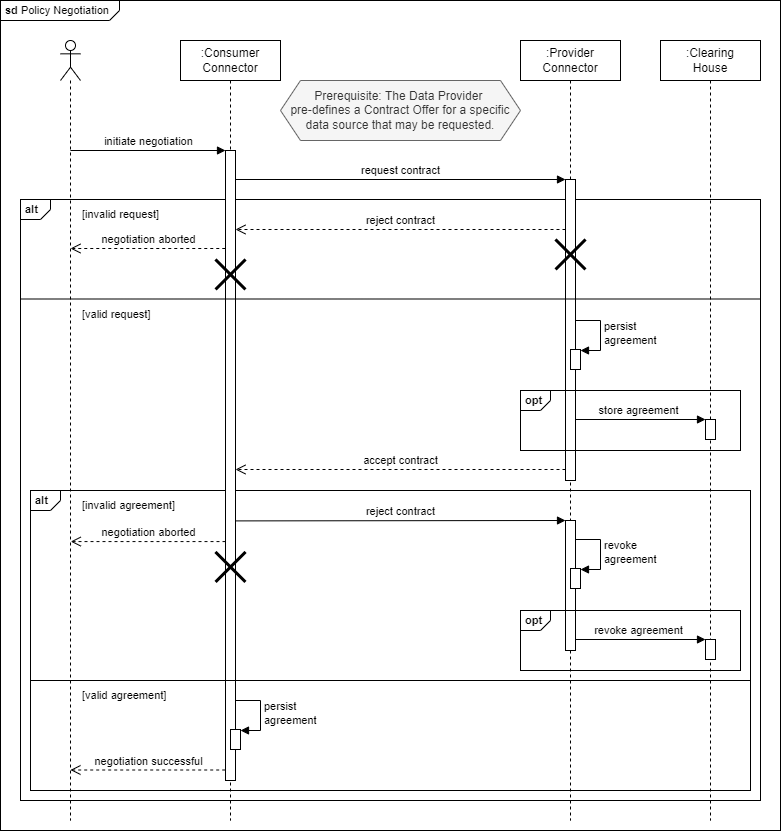
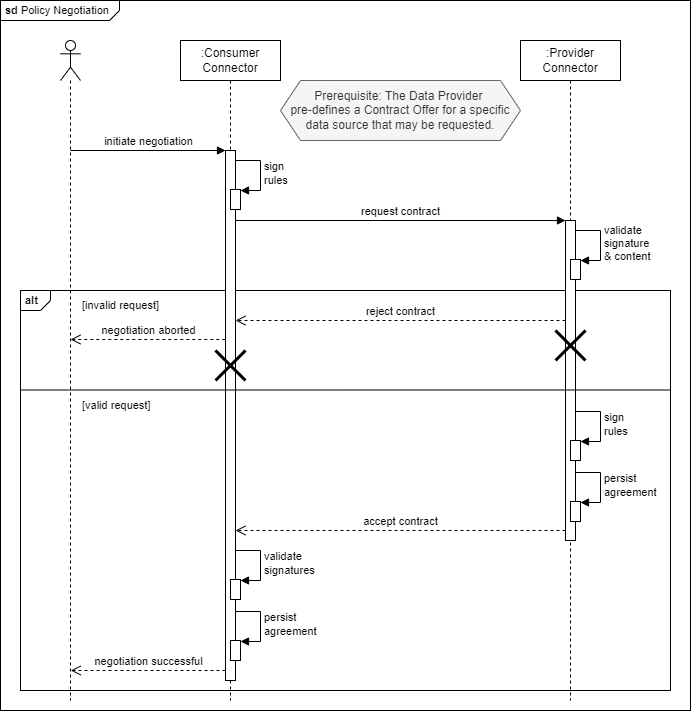
chore: update sequence diagrams

diff --git a/documentation/3_Layers_of_the_Reference_Architecture_Model/3_3_Process_Layer/3_3_3_Contract_Negotiation.md b/documentation/3_Layers_of_the_Reference_Architecture_Model/3_3_Process_Layer/3_3_3_Contract_Negotiation.md
@@ -1,10 +1,10 @@
 # Contract Negotiation
 
 While a Connector Self-Description basically contains descriptive information about available 
-datasets, these also include Usage Control information in form of a Contract Offer. A Contract Offer
-describes under what conditions the Data Provider is willing to make its data available to the Data 
-Consumer. This can range from simple access restrictions to complex pre- and post-duties. See more
-details in Section [X](). // TODO Link to information layer explaining a contract offer.
+data assets, these also include Usage Control information in form of a Contract Offer. A Contract 
+Offer describes under what conditions the Data Provider is willing to make its data available to the 
+Data Consumer. This can range from simple access restrictions to complex pre- and post-duties. See 
+more details in Section [X](). // TODO Link to information layer explaining a contract offer.
 
 In a (semi-)automated negotiation process performed by the Usage Control frameworks of the 
 participating IDS Connectors, the Data Consumer and the Data Provider need to agree on a Data Usage
@@ -13,65 +13,78 @@ more detail.
 
 _Please note, as this is a technology-independent message flow, appropriate responses were not
 considered. The illustrated processes can run synchronously as well as asynchronously, and can be
-cancelled at any time._
+cancelled at any time.
+In general, all sequences are not fixed and can take place in any conceivable direction. The IDS
+solely defines the roles of Data Consumer and Data Provider and how to deal with messages of a
+certain type.
+The shape next to the IDS Connectors represents a user or a connected system that interacts with 
+it - accordingly initiates or influences the sequence._
+
+## Basic Flow
+
+Figure [AA](#_fig-aa-simple-contract-negotiation_) shows the most simple version of the sequence 
+that is at least necessary to reach a Contract Agreement. In advance, the Data Provider has attached 
+a Contract Offer to a data offer. As described in Section [3.3.2](3_3_2_Data_Offering.md), this is 
+returned to the Data Consumer as part of the IDS Connector's Self-Description. However, the Data 
+Consumer can submit a Contract Request at any time, even if no Contract Offer exists yet.
 
 ![Simple Contract Negotiation](media/policy-negotiation-sequence-1.png)
 #### _Fig. AA: Simple Contract Negotiation_
 
-Figure [AA]() shows the most simple version of the sequence that is at least necessary to 
-reach a Contract Agreement. In advance, the Data Provider has attached a Contract Offer to a data 
-offer. As described in Section [3.3.2](3_3_2_Data_Offering.md), this is returned to the Data 
-Consumer as part of the IDS Connector's Self-Description. However, the Data Consumer can submit a 
-Contract Request at any time, even if no Contract Offer exists yet.
-
-_In Figure [AA](), as well as in the following ones, the shape next to the IDS Connectors 
-represents a user or a connected system that interacts with it - accordingly initiates or influences 
-the sequence._
-
-In Figure [AA](), the negotiation sequence is initiated by the Data Consumer's IDS 
-Connector sending a Contract Request to the Data Provider. The content of this Contract Request can 
-differ from the Contract Offer, or it can adopt it as it is. The meta-information in the contract is 
-modified accordingly (e.g., the date, the term, or the signature). As soon as the Data Provider's 
-IDS Connector receives the Contract Request, its validity is checked by means of syntax and content. 
-As Figure AA concentrates on the simple flow, it covers no counter Contract Offers. Thus, the 
-Contract Request is either rejected or accepted.
+In Figure [AA](#_fig-aa-simple-contract-negotiation_), the negotiation sequence is initiated by the 
+Data Consumer's IDS Connector sending a Contract Request to the Data Provider. The content of this 
+Contract Request can differ from the Contract Offer, or it can adopt it as it is. The 
+meta-information in the contract is modified accordingly (e.g., the date, the term, or the 
+signature). As soon as the Data Provider's IDS Connector receives the Contract Request, its validity 
+is checked by means of syntax, content, and signature. As Figure[AA](#_fig-aa-simple-contract-negotiation_) 
+concentrates on the simple flow, it covers no counter Contract Offers. Thus, the Contract Request is 
+either rejected or accepted.
 
 In the case of a Contract Agreement, this is also signed by the Data Provider's IDS Connector and, 
-for confirmation, the Data Consumer is informed about the Contract Agreement. As soon as a Contract 
-Agreement has been reached, this is instantiated and deployed inside both IDS Connectors. This means 
-it needs to be persisted in an immutable way on both sides. This way, both IDS Connectors have all 
-necessary information for later Policy Enforcement. In addition, the Data Provider's IDS Connector 
-sends the Contract Agreement to the Clearing House.
+for confirmation, the Data Consumer is informed about the Contract Agreement. Again, content and
+signature are validated. If this fails, the Data Consumer simply does not invoke any subsequent 
+Data Operations referring to this Contract Agreement (see Section [3.3.4](3_3_4_Exchanging_Data.md)).
 
-As with previous Contract Requests or Contract Offers, the Contract Agreement is checked for 
-validity. If, at any time, a participant does not agree with the shared content, the Contract can be 
-rejected. In the case of a Contract Rejection, the sequence is aborted. Connected systems or users 
-are notified and previously saved Contract Agreements are revoked (internally and externally, e.g. 
-from the Clearing House). A negotiation sequence is never reactivated, but a new one can be started 
-at any time.
+As soon as a Contract Agreement has been reached, this is instantiated and deployed inside both IDS 
+Connectors. This means it needs to be persisted in an immutable way on both sides. This way, both 
+IDS Connectors have all necessary information for later Policy Enforcement.
+
+If, at any time, a participant does not agree with the shared content, the Contract can be
+rejected. In the case of a Contract Rejection, the sequence is aborted. Connected systems or users
+are notified and previously saved Contract Agreements are revoked. A negotiation sequence is never
+reactivated, but a new one can be started at any time.
+
+## Clearing House
+
+In addition, for extra security, the approval of a Contract Request or Offer may be extended by
+involving the Clearing House. This signs the TODO
+
+![Clearing House Involvement](media/policy-negotiation-sequence-4.png)
+#### _Fig. BB: Contract Agreement with Clearing House Involvement_
+
+## Reversed Sequence
+
+Figure [CC]() depicts a simple negotiation flow as Figure [CC](#_fig-aa-simple-contract-negotiation_). 
+In this case, however, the sequence is reversed and the Data Provider initiates the negotiation. 
+Nevertheless, it should be noted that, since the Data Provider is the one who makes the data offer, 
+it is always the one who signs the Contract Agreement last (and sends it to the Clearing House).
 
 ![Contract Negotiation: Initiation by Data Provider](media/policy-negotiation-sequence-2.png)
-#### _Fig. BB: Contract Negotiation - Initiation by Data Provider_
+#### _Fig. CC: Contract Negotiation - Initiation by Data Provider_
 
-Figure [BB]() depicts a simple negotiation flow as Figure AA. In this case, however, the sequence is 
-reversed and the Data Provider initiates the negotiation. Nevertheless, it should be noted that, 
-since the Data Provider is the one who makes the data offer, it is always the one who signs the 
-Contract Agreement last and sends it to the Clearing House.
+## Counter Offers
 
-_In general, all sequences are not fixed and can take place in any conceivable direction. The IDS 
-solely defines the roles of Data Consumer and Data Provider and how to deal with messages of a 
-certain type._
+Figure DD illustrates a more complex negotiation flow that covers counter Contract Offers and
+external input. As soon as the Data Provider's IDS Connector receives a valid Contract Request, it
+may notify interested users or systems and provide an interface for input. Thus, the IDS Connector,
+if it does not already do so by default, can be extended by the functionality to automatically
+negotiate contracts within a certain range (e.g. using an AI service). Alternatively, a service
+or a user can interact and directly affect the negotiation by rejecting or agreeing to Contract
+Offers or Requests. In addition, counter Contract Offers can be made. Further steps take place as
+already described above: Incoming Contracts are validated and as soon as a Contract Agreement has
+been reached, it is persisted and enforced by both IDS Connectors. How this Policy Enforcement will
+be ensured is explained in Section [3.3.6](3_3_6_Policy_Enforcement.md).
 
 ![Contract Negotiation: Counter Offers](media/policy-negotiation-sequence-3.png)
-#### _Fig. CC: Contract Negotiation - Counter Offers_
-
-Figure CC illustrates a more complex negotiation flow that covers counter Contract Offers and 
-external input. As soon as the Data Provider's IDS Connector receives a valid Contract Request, it
-may notify interested users or systems and provide an interface for input. Thus, the IDS Connector, 
-if it does not already do so by default, can be extended by the functionality to automatically 
-negotiate contracts within a certain range (e.g. using an AI service). Alternatively, a service 
-or a user can interact and directly affect the negotiation by rejecting or agreeing to Contract
-Offers or Requests. In addition, counter Contract Offers can be made. Further steps take place as 
-already described above: Incoming Contracts are validated and as soon as a Contract Agreement has 
-been reached, it is persisted and enforced by both IDS Connectors. How this Policy Enforcement will 
-be ensured is explained in Section 3.3.6. // TODO Link to Policy Enforcement Section. 
+#### _Fig. DD: Contract Negotiation - Counter Offers_
+// TODO Update Fig DD
